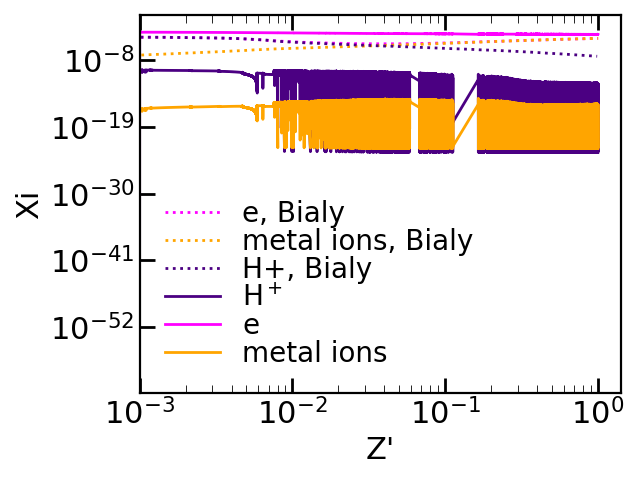
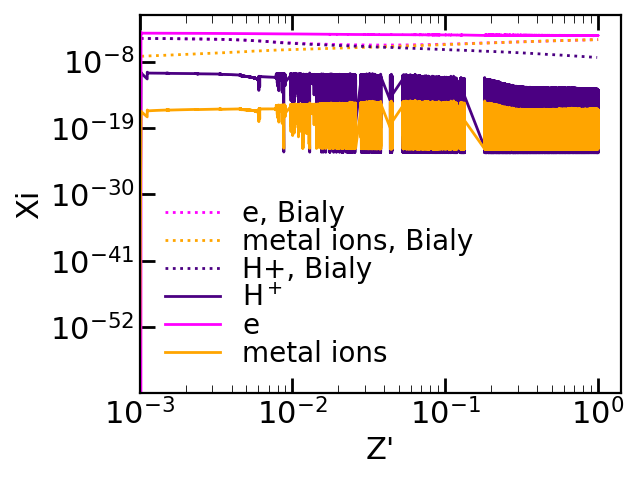
Changed H reactions for Bialy test

diff --git a/src/python/examples/constantTemp_A_plotAbundances.py b/src/python/examples/constantTemp_A_plotAbundances.py
@@ -84,19 +84,19 @@ if __name__=="__main__":
 
         # set initial density and temperature
         initial_temperature = 100.
-        initial_density     = 9.e2 * mass_hydrogen_cgs # g / cm^3
+        initial_density     = 8.e2 * mass_hydrogen_cgs # g / cm^3
          
         rval = my_chemistry.initialize()
 
         fc = FluidContainer(my_chemistry, 1)
         fc["density"][:] = initial_density / my_chemistry.density_units
         fc["HII"][:] = tiny_number * fc["density"]
-        fc["HI"][:] = 6.5e-1 * fc["density"]
+        fc["HI"][:] = 7.0e-1 * fc["density"]
         fc["HeI"][:] = tiny_number * fc["density"]
         fc["HeII"][:] = tiny_number * fc["density"]
         fc["HeIII"][:] = tiny_number * fc["density"]
         if my_chemistry.primordial_chemistry > 1:
-            fc["H2I"][:] = 2.5e-1 * fc["density"]
+            fc["H2I"][:] = 2.0e-1 * fc["density"]
             fc["H2II"][:] = tiny_number * fc["density"]
             fc["HM"][:] = tiny_number * fc["density"]
         if my_chemistry.primordial_chemistry > 2:
